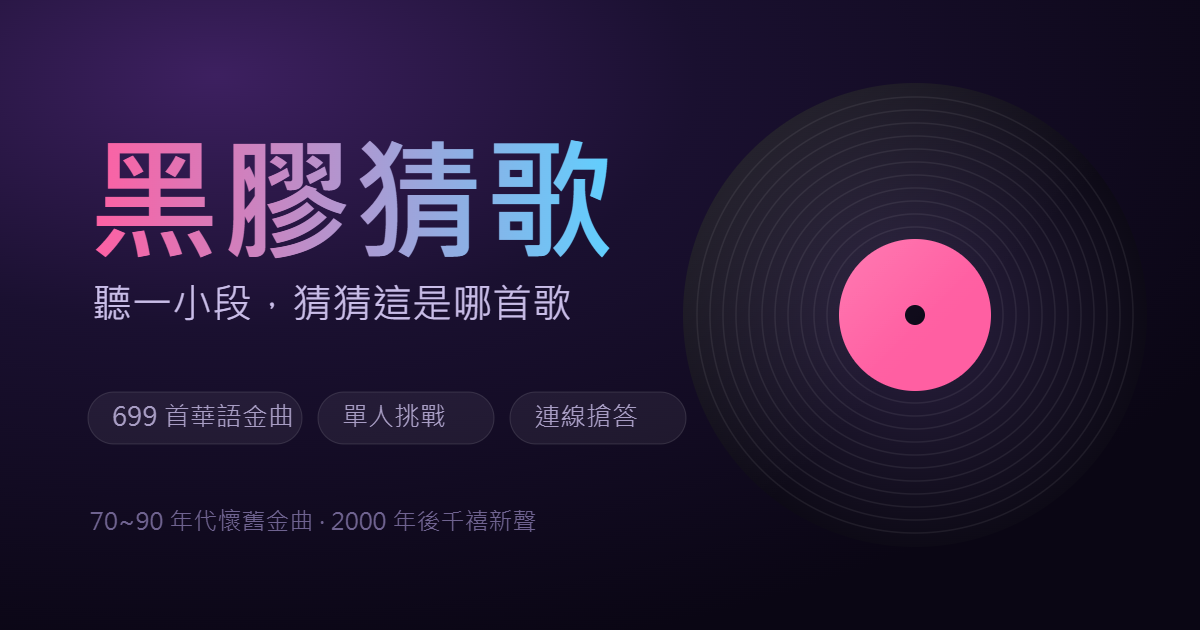
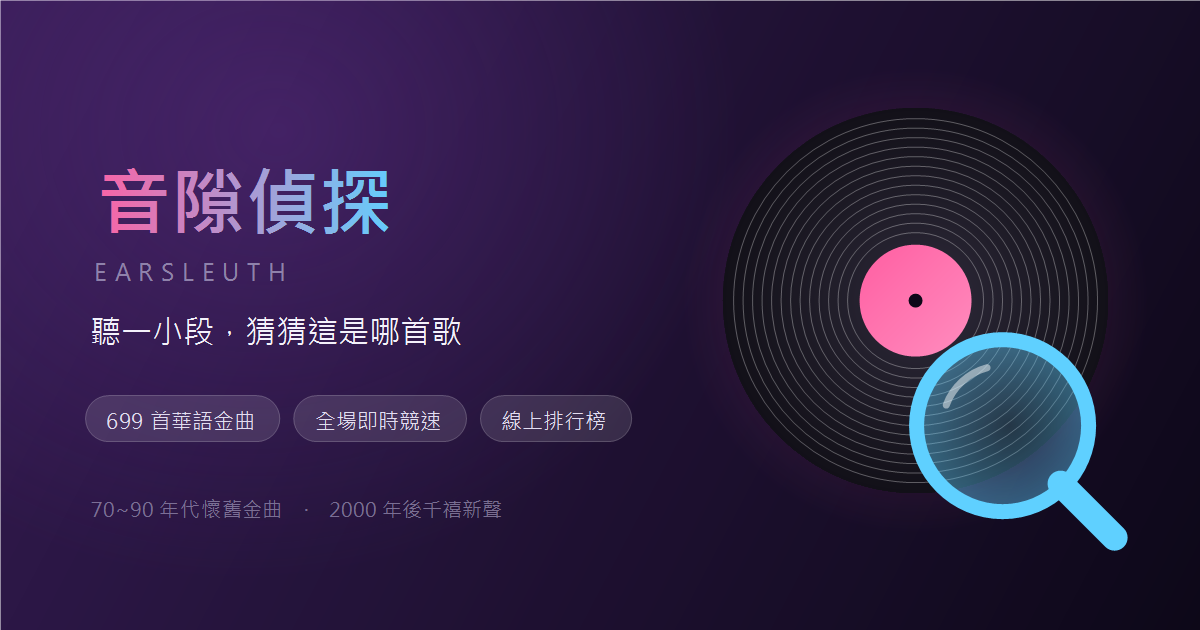
重做分享預覽圖，並補上全場競速的說明文字
舊的 og-image.png 上面印的還是「黑膠猜歌」，連結公開後傳到 LINE / FB
預覽圖會是舊名字。

- 重畫成音隙偵探：黑膠唱片加放大鏡，呼應 EarSleuth 這個名字
- 產生腳本收進 tools/make-og-image.ps1，用 Windows 內建的 System.Drawing
  畫，不需要裝任何東西；之後要改名或調版面可以直接重跑
- og:description、twitter:description、meta description、manifest 的
  說明文字補上「全場即時競速」與「線上排行榜」，這兩個是新的主打功能

踩到一個 PowerShell 的坑記在腳本註解裡：變數不分大小寫，半徑 $R 會跟
迴圈變數 $r 撞成同一個，導致溝紋一條都沒畫出來。

diff --git a/index.html b/index.html
@@ -4,14 +4,14 @@
 <meta charset="UTF-8">
 <meta name="viewport" content="width=device-width, initial-scale=1.0">
 <title>音隙偵探</title>
-<meta name="description" content="免費線上華語猜歌遊戲。聽一小段音樂，猜猜這是哪首歌。收錄 699 首經典金曲，分成懷舊金曲（70~90 年代）與千禧新聲（2000 年後），有簡單／困難／魔王三種難度、計時挑戰，還能開房間跟朋友連線搶答。">
+<meta name="description" content="免費線上華語猜歌遊戲。聽一小段音樂，猜猜這是哪首歌。收錄 699 首經典金曲，分成懷舊金曲（70~90 年代）與千禧新聲（2000 年後），有簡單／困難／魔王三種難度、計時挑戰排行榜、全場同題即時競速，還能開房間跟朋友連線搶答。">
 <link rel="canonical" href="https://siray-lu.github.io/EarSleuth/">
 
 <!-- 分享到 LINE / Facebook / Threads 時顯示的預覽資訊 -->
 <meta property="og:type" content="website">
 <meta property="og:site_name" content="音隙偵探">
 <meta property="og:title" content="音隙偵探 — 華語老歌猜歌遊戲">
-<meta property="og:description" content="聽一小段就猜出歌名！699 首華語經典金曲，可以單人挑戰也能開房間跟朋友連線搶答。">
+<meta property="og:description" content="聽一小段就猜出歌名！699 首華語經典金曲，有全場即時競速、線上排行榜，也能開房間跟朋友連線搶答。">
 <meta property="og:url" content="https://siray-lu.github.io/EarSleuth/">
 <meta property="og:locale" content="zh_TW">
 <meta property="og:image" content="https://siray-lu.github.io/EarSleuth/og-image.png">
@@ -20,7 +20,7 @@
 <meta property="og:image:alt" content="音隙偵探 — 聽一小段，猜猜這是哪首歌">
 <meta name="twitter:card" content="summary_large_image">
 <meta name="twitter:title" content="音隙偵探 — 華語老歌猜歌遊戲">
-<meta name="twitter:description" content="聽一小段就猜出歌名！699 首華語經典金曲，可以單人挑戰也能開房間跟朋友連線搶答。">
+<meta name="twitter:description" content="聽一小段就猜出歌名！699 首華語經典金曲，有全場即時競速、線上排行榜，也能開房間跟朋友連線搶答。">
 <meta name="twitter:image" content="https://siray-lu.github.io/EarSleuth/og-image.png">
 
 <!-- 加到手機主畫面後會全螢幕開啟，看起來就像一般 App -->
